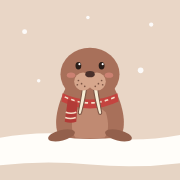
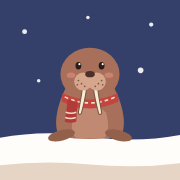
겨울 주색을 털실 남색으로: 가을(단풍)과 구분
따뜻한 눈빛 바탕과 바코의 빨간 목도리는 그대로, 주색과 로그인 아래쪽·아이콘 배경을 남색 겨울밤으로.

Claude-Session: https://claude.ai/code/session_01F8hNNNgtMbgEFBN3Ct6zKx

diff --git a/src/styles.css b/src/styles.css
@@ -1,12 +1,12 @@
-/* BacoClass: 포근한 겨울(눈 + 코코아) + 공책 + 스테인리스 식판, 캐릭터는 목도리 두른 바다코끼리 바코 */
+/* BacoClass: 포근한 겨울(따뜻한 눈 + 털실 남색) + 공책 + 스테인리스 식판, 캐릭터는 목도리 두른 바다코끼리 바코 */
 :root {
   --paper: #f4ede6;        /* 따뜻한 눈빛 공책 바탕 */
   --surface: #fffaf5;
   --rule: #e4d8cc;         /* 공책 줄 */
   --ink: #2a201b;
   --ink-soft: #76675d;
-  --board: #5b3a2e;        /* 코코아 (예전 칠판 자리) */
-  --board-ink: #fbf1e8;    /* 우유 거품 */
+  --board: #34406a;        /* 털실 스웨터 남색 (예전 칠판 자리) */
+  --board-ink: #fbf5ee;    /* 눈 */
   --highlight: #ffe45c;    /* 형광펜 */
   --redpen: #c93c27;       /* 빨간펜 */
   --steel-1: #dfe4e6;      /* 식판 */
@@ -26,13 +26,13 @@
 
 @media (prefers-color-scheme: dark) {
   :root {
-    --paper: #1b1613;
-    --surface: #241d19;
-    --rule: #3c3029;
-    --ink: #f3eae2;
-    --ink-soft: #b3a396;
-    --board: #e3b597;
-    --board-ink: #2b1810;
+    --paper: #19181d;
+    --surface: #222129;
+    --rule: #37353f;
+    --ink: #f1ece6;
+    --ink-soft: #aba59f;
+    --board: #b9c3ec;
+    --board-ink: #171c33;
     --highlight: #8a7a1c;
     --redpen: #ff8a73;
     --steel-1: #44505a;
@@ -238,7 +238,7 @@ textarea { resize: vertical; line-height: 1.6; }
   position: fixed; right: 16px; bottom: calc(80px + env(safe-area-inset-bottom)); z-index: 5;
   display: inline-flex; align-items: center; gap: 6px; height: 50px; padding: 0 18px 0 14px;
   border-radius: 999px; background: var(--board); color: var(--board-ink); font-weight: 600;
-  box-shadow: 0 8px 18px -6px rgb(60 36 28 / 0.5);
+  box-shadow: 0 8px 18px -6px rgb(40 48 84 / 0.5);
 }
 
 /* 하단 탭 */
@@ -268,19 +268,19 @@ textarea { resize: vertical; line-height: 1.6; }
     radial-gradient(2.5px 2.5px at 88% 52%, #fff 98%, transparent),
     radial-gradient(2px 2px at 8% 62%, #fff 98%, transparent),
     linear-gradient(#ecdccf, #f7efe8 72%);
-  color: #5b3a2e;
+  color: #34406a;
 }
 .floe-sky { padding: 16vh 28px 0; max-width: 560px; }
-.floe-title { font-size: clamp(52px, 15vw, 76px); line-height: 1; letter-spacing: -0.01em; color: #5b3a2e; }
-.floe-sub { margin-top: 14px; font-size: 17px; line-height: 1.7; color: #7a5c4e; }
-/* 눈 더미 위에 앉은 바코. 화면 아래 코코아빛 담요로 이어짐 */
+.floe-title { font-size: clamp(52px, 15vw, 76px); line-height: 1; letter-spacing: -0.01em; color: #34406a; }
+.floe-sub { margin-top: 14px; font-size: 17px; line-height: 1.7; color: #6a6577; }
+/* 눈 더미 위에 앉은 바코. 화면 아래 남색 겨울밤으로 이어짐 */
 .floe-scene { position: relative; margin-top: auto; min-height: 270px; flex: none; }
 .floe-bob { position: absolute; left: 50%; bottom: 4px; width: 320px; margin-left: -150px; }
 .floe-baco { display: block; margin: 0 auto -20px; position: relative; z-index: 1; }
 .floe-ice { display: block; width: 100%; height: 56px; }
 .floe-wave { position: absolute; left: 0; right: 0; bottom: -1px; width: 100%; height: 24px; z-index: 2; }
 .floe-sea {
-  background: #5b3a2e; color: #fbf1e8;
+  background: #34406a; color: #fbf5ee;
   padding: 18px 24px calc(28px + env(safe-area-inset-bottom));
   display: flex; flex-direction: column; gap: 12px;
 }
@@ -289,7 +289,7 @@ textarea { resize: vertical; line-height: 1.6; }
 .floe-note a { color: inherit; text-decoration: underline; text-underline-offset: 3px; }
 .btn-ice {
   min-height: 52px; padding: 0 20px; border: none; border-radius: 14px;
-  background: #fffaf5; color: #5b3a2e; font-weight: 600; font-size: 17px;
+  background: #fffaf5; color: #34406a; font-weight: 600; font-size: 17px;
   box-shadow: 0 3px 0 #d9c3b1;
 }
 .floe-page :focus-visible { outline-color: var(--highlight); }
@@ -301,7 +301,7 @@ textarea { resize: vertical; line-height: 1.6; }
 /* 사진 크게 보기 위의 버튼 */
 .btn-chalk {
   min-height: 52px; padding: 0 20px; border: none; border-radius: 12px;
-  background: #fbf1e8; color: #5b3a2e; font-weight: 600; font-size: 17px;
+  background: #fbf5ee; color: #34406a; font-weight: 600; font-size: 17px;
   display: inline-flex; align-items: center; justify-content: center;
 }
 
@@ -683,4 +683,4 @@ button.attach-file { cursor: pointer; }
 .season-spring { --s-board: #b0476b; --s-paper: #f8d9e2; }
 .season-summer { --s-board: #2f7a45; --s-paper: #cfe8c7; }
 .season-autumn { --s-board: #a4471f; --s-paper: #f2cf9e; }
-.season-winter { --s-board: #5b3a2e; --s-paper: #f1e2d4; }
+.season-winter { --s-board: #34406a; --s-paper: #f1e4d8; }

diff --git a/public/privacy.html b/public/privacy.html
@@ -6,7 +6,7 @@
   <title>개인정보처리방침 · BacoClass</title>
   <link rel="icon" href="/icon.svg" type="image/svg+xml" />
   <style>
-    :root { --ink: #2a201b; --soft: #76675d; --paper: #f4ede6; --board: #5b3a2e; --rule: #e4d8cc; }
+    :root { --ink: #2a201b; --soft: #76675d; --paper: #f4ede6; --board: #34406a; --rule: #e4d8cc; }
     @media (prefers-color-scheme: dark) { :root { --ink: #e8eee9; --soft: #a3b3ac; --paper: #141a18; --board: #8fc7ad; --rule: #2a3531; } }
     body { margin: 0; background: var(--paper); color: var(--ink); font: 16px/1.7 'IBM Plex Sans KR', system-ui, sans-serif; }
     main { max-width: 680px; margin: 0 auto; padding: 40px 16px 64px; }

diff --git a/index.html b/index.html
@@ -3,7 +3,7 @@
   <head>
     <meta charset="UTF-8" />
     <meta name="viewport" content="width=device-width, initial-scale=1.0, viewport-fit=cover" />
-    <meta name="theme-color" content="#5b3a2e" />
+    <meta name="theme-color" content="#34406a" />
     <link rel="icon" href="/icon.svg" type="image/svg+xml" />
     <link rel="apple-touch-icon" href="/apple-touch-icon.png" />
     <!-- 아이폰·아이패드·맥에서 홈 화면/Dock 에 추가했을 때 앱 이름과 모양 -->

diff --git a/src/pages/Login.jsx b/src/pages/Login.jsx
@@ -23,7 +23,7 @@ export default function Login() {
           </svg>
         </div>
         <svg className="floe-wave" viewBox="0 0 400 24" preserveAspectRatio="none">
-          <path d="M0 12C34 2 66 2 100 12S166 22 200 12S266 2 300 12S366 22 400 12V24H0Z" fill="#5b3a2e" />
+          <path d="M0 12C34 2 66 2 100 12S166 22 200 12S266 2 300 12S366 22 400 12V24H0Z" fill="#34406a" />
         </svg>
       </div>
       <div className="floe-sea">

diff --git a/src/theme.js b/src/theme.js
@@ -3,7 +3,7 @@ export const SEASONS = [
   { id: 'spring', name: '봄', note: '벚꽃', color: '#b0476b' },
   { id: 'summer', name: '여름', note: '푸른 잎', color: '#2f7a45' },
   { id: 'autumn', name: '가을', note: '단풍', color: '#a4471f' },
-  { id: 'winter', name: '겨울', note: '포근한 눈', color: '#5b3a2e' }
+  { id: 'winter', name: '겨울', note: '포근한 눈', color: '#34406a' }
 ]
 const KEY = 'bacoclass-season'
 

diff --git a/vite.config.js b/vite.config.js
@@ -18,7 +18,7 @@ export default defineConfig({
         short_name: 'BacoClass',
         description: '수행평가, 가정통신문, 급식을 한눈에',
         lang: 'ko',
-        theme_color: '#5b3a2e',
+        theme_color: '#34406a',
         background_color: '#f4ede6',
         display: 'standalone',
         start_url: '/',
